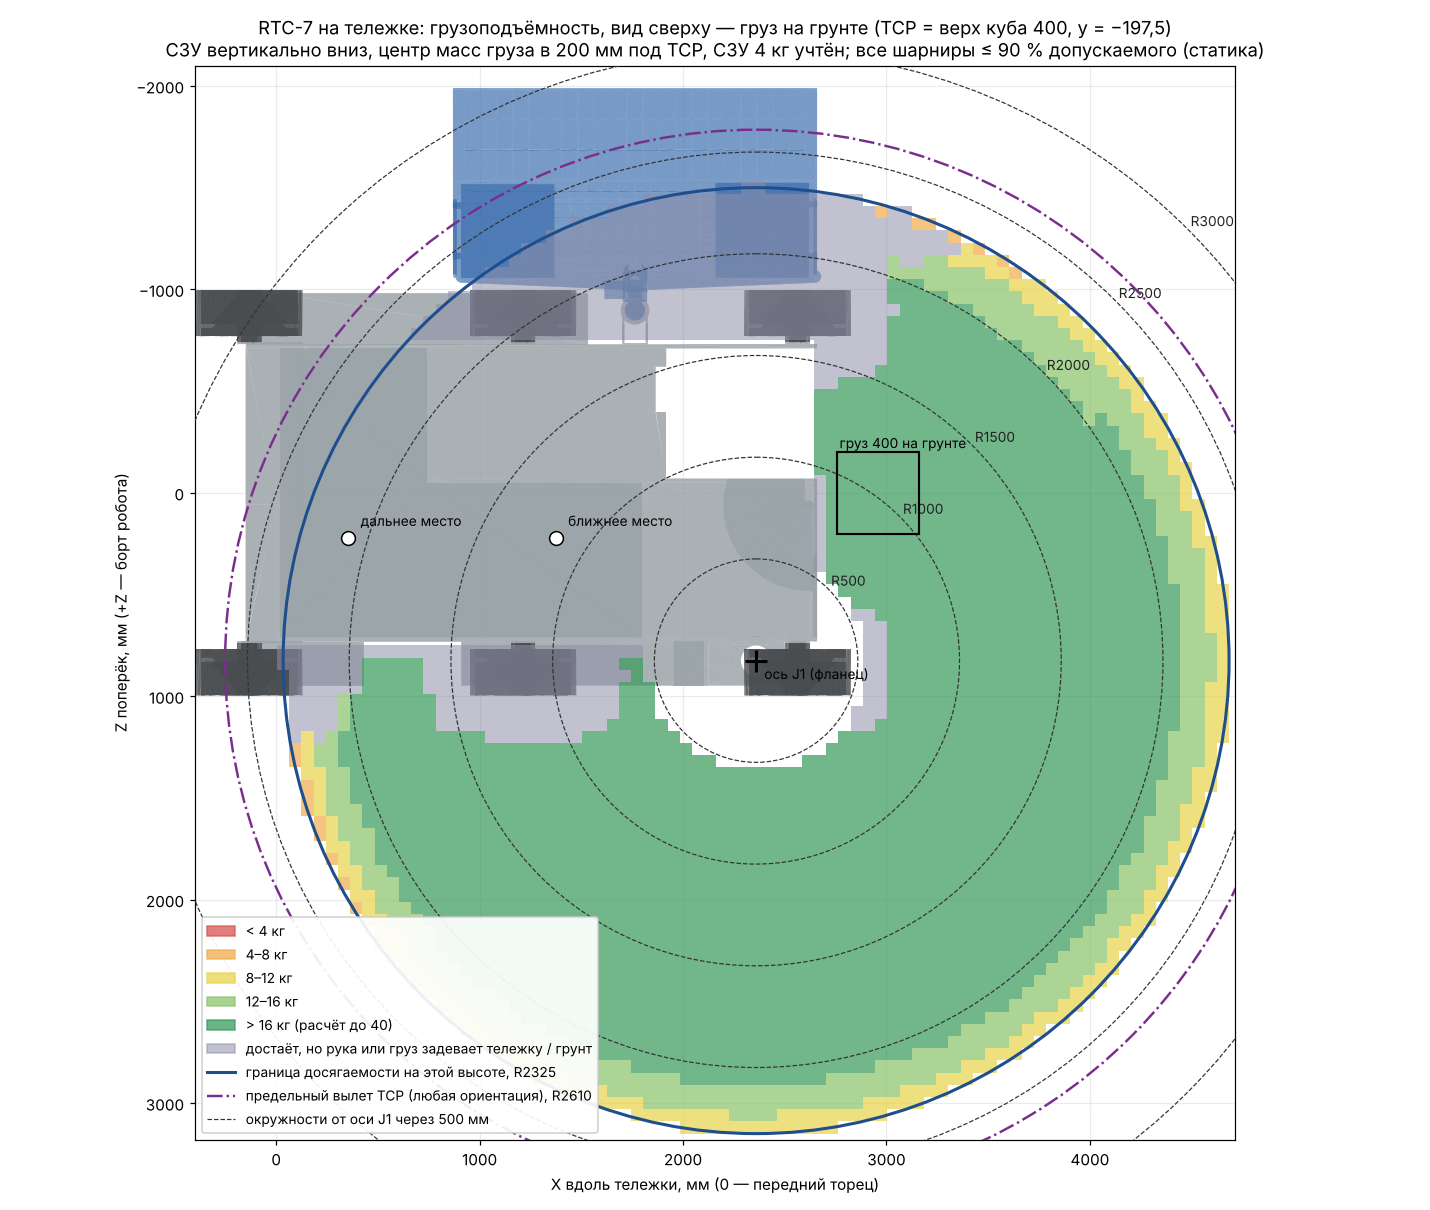
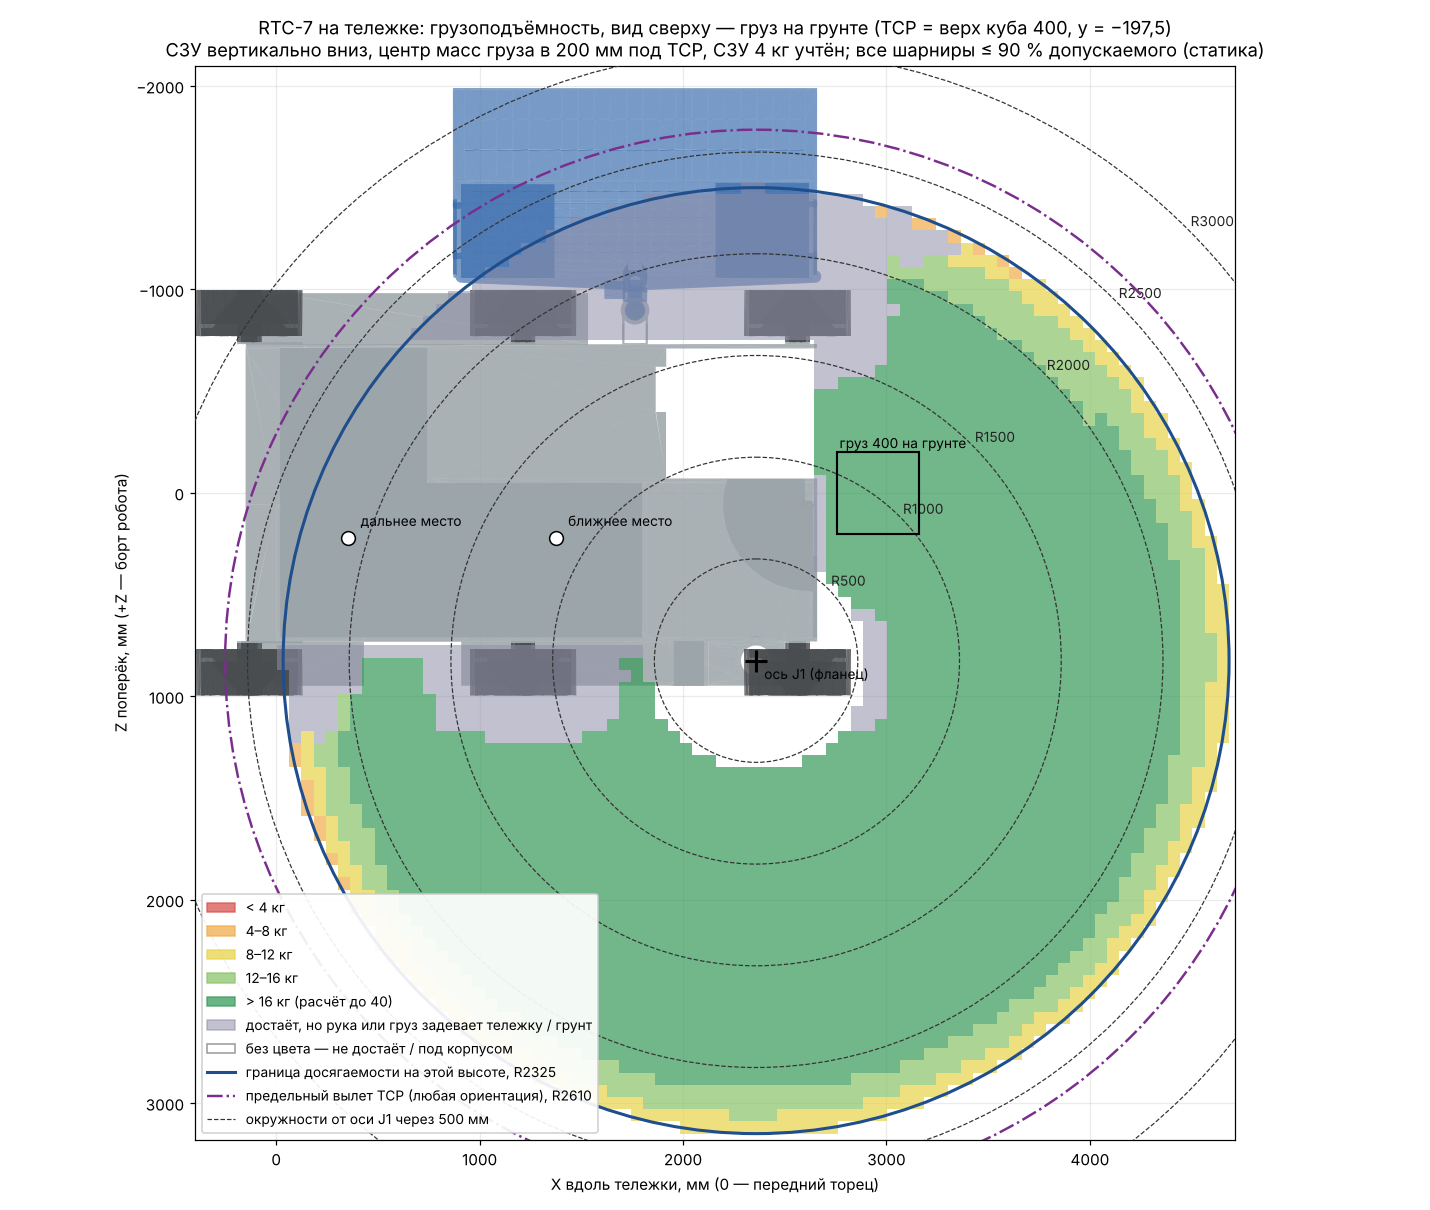
Payload capacity maps (top view, 3 levels) + REACH.md section
Claude-Session: https://claude.ai/code/session_013iLz47Yh3em5PYAnxjXBCa

diff --git a/tools/cart_payload.py b/tools/cart_payload.py
@@ -153,6 +153,7 @@ def draw(level, title, xs, zs, cap, sols, png, r_any):
                  f"СЗУ вертикально вниз, центр масс груза в {PAY_COM:.0f} мм под TCP, СЗУ 4 кг учтён; все шарниры ≤ {LIMIT*100:.0f} % допускаемого (статика)")
     h = [Patch(color=c, alpha=0.75, label=l) for c, l in zip(BIN_COL, BIN_LAB)]
     h += [Patch(color="#8f8fa8", alpha=0.55, label="достаёт, но рука или груз задевает тележку / грунт"),
+          Patch(facecolor="white", edgecolor="#999", label="без цвета — не достаёт" + (" / под корпусом" if level == "ground" else "")),
           plt.Line2D([], [], color="#1f4e8c", lw=2, label=f"граница досягаемости на этой высоте, R{rmax:.0f}"),
           plt.Line2D([], [], color="#7b2d8e", lw=1.6, ls="-.", label=f"предельный вылет TCP (любая ориентация), R{r_any:.0f}"),
           plt.Line2D([], [], color="#333", lw=0.8, ls="--", label="окружности от оси J1 через 500 мм")]

diff --git a/platform/CART/REACH.md b/platform/CART/REACH.md
@@ -54,3 +54,22 @@ y = −597,5. Моменты — только от силы тяжести, ма
 поворотом +105° / −90° (315 с; по 3 точки на положение). Каждые 0,25 с программы проверены касания руки, груза,
 тележки и панели — **касаний нет ни в одной программе**. В панели справа: этап, углы J1–J7, статический момент от веса
 (доля допускаемого, груз 8 кг учитывается в захвате), координаты TCP.
+
+## Карта грузоподъёмности (вид сверху)
+
+`tools/cart_payload.py` → `payload_map_ground.png`, `payload_map_deck.png`, `payload_map_transfer.png`,
+`payload_radius.png`, данные `payload_map.json`. Центр окружностей — ось J1 на монтажном фланце (2359; 825).
+Поза: СЗУ вертикально вниз, центр масс груза в 200 мм под TCP (куб 400), СЗУ 4 кг всегда; грузоподъёмность —
+наибольшая масса груза, при которой все шарниры (момент по оси, опрокидывающий J3 и J5) ≤ 90 % допускаемого, статика
+(10 % — запас на разгон). Для каждого вылета берётся лучшая из найденных поз без касаний (рука, груз, тележка, грунт).
+
+| Высота TCP | Предел вылета | ≥ 8 кг до | ≥ 12 кг до | ≥ 16 кг до |
+|---|---|---|---|---|
+| груз на грунте, y = −197,5 | R2325 | R2325 | R2225 | R2075 |
+| над палубой, низ груза 600 (y = 1000) | R2350 | R2325 | R2225 | R2100 |
+| перенос, y = 1500 | R2175 | R2175 | R2150 | R2050 |
+
+Ближе ~R2000 — более 16 кг (расчёт ограничен 40 кг). Предельный вылет TCP при любой ориентации — R2610. На грунте: зона
+под корпусом исключена (в модели у заднего отсека нет дна), у самой оси J1 (до ~R550) рука не опускается до грунта;
+вдоль бортов и колёс — серая полоса касаний. Посадочные места над палубой: ближнее — > 16 кг, дальнее (R2093) —
+12–16 кг; груз 8 кг на дальнем месте идёт с запасом по этой оценке (статика; с разгоном J3 опрок. — до 85 %, см. выше).
